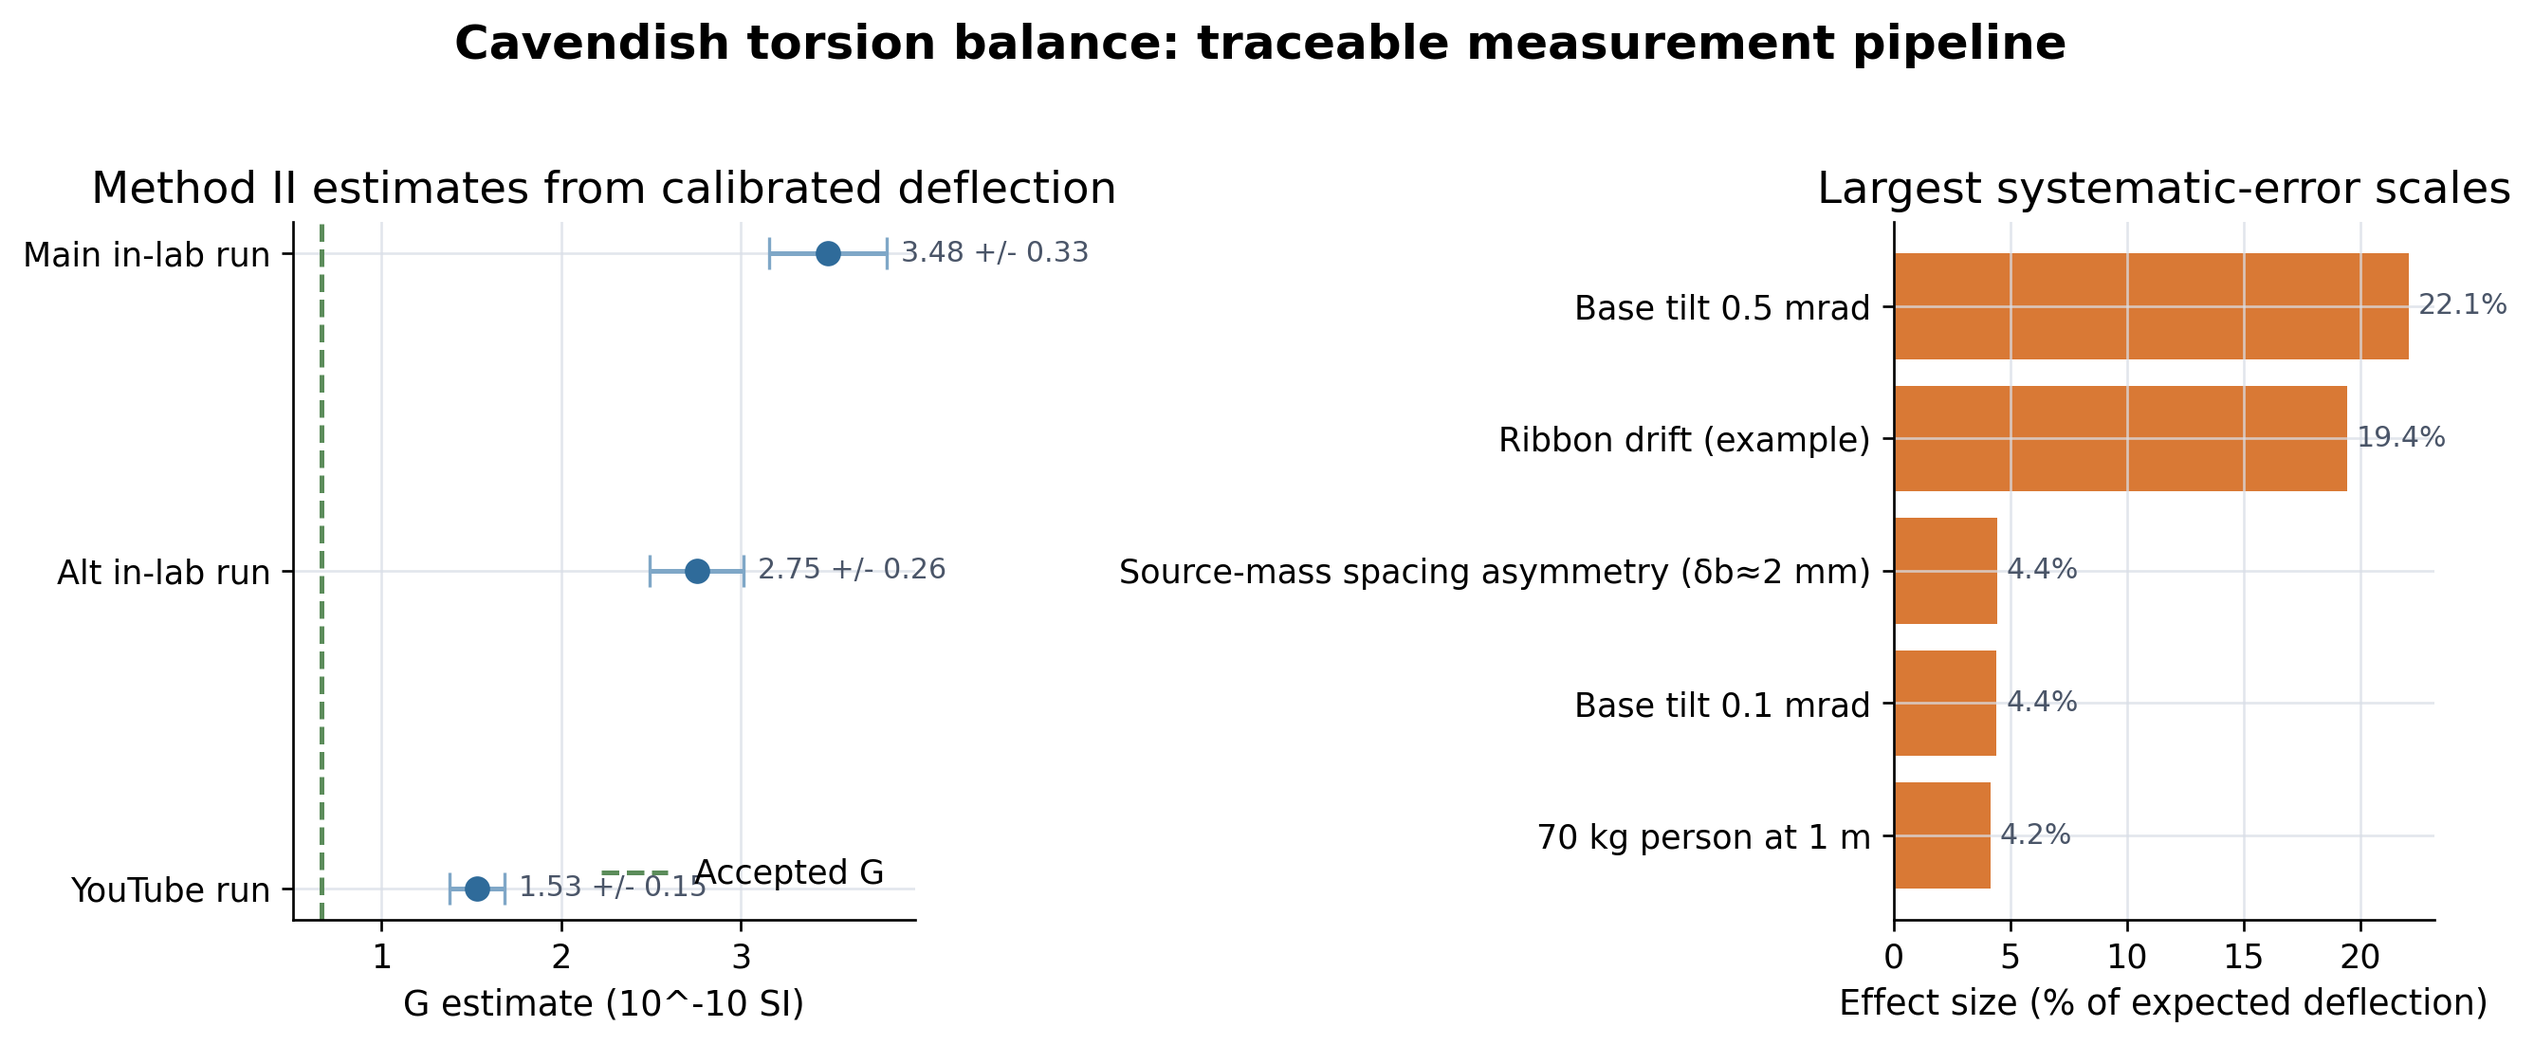
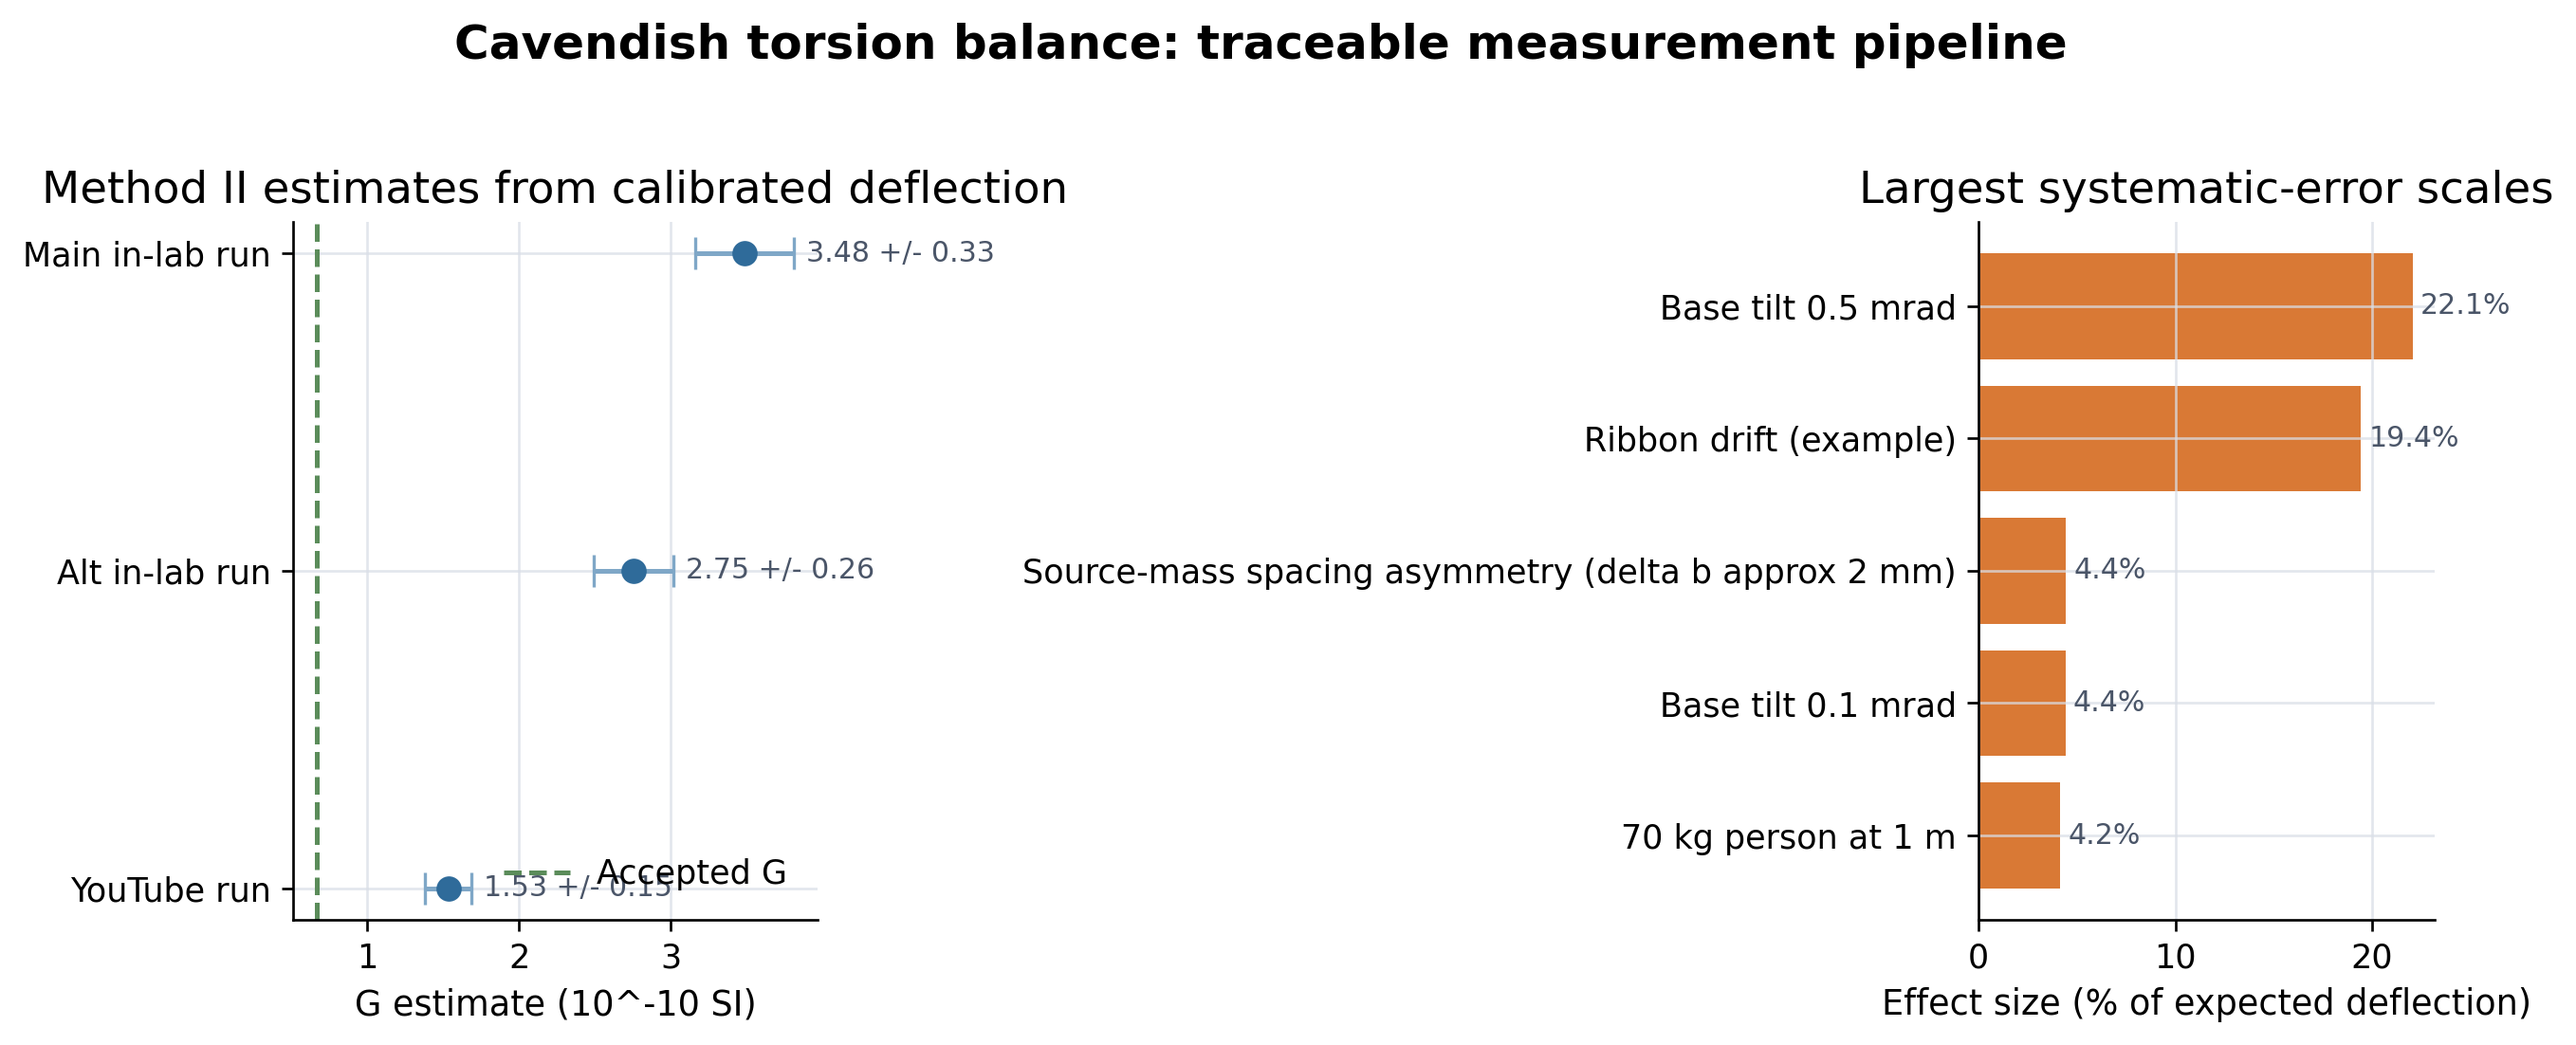
Add research snapshot and clean labels

diff --git a/scripts/reproduce_report_artifacts.py b/scripts/reproduce_report_artifacts.py
@@ -16,6 +16,7 @@ from pathlib import Path
 import numpy as np
 import pandas as pd
 import matplotlib.pyplot as plt
+from matplotlib.patches import FancyBboxPatch
 
 
 ROOT = Path(__file__).resolve().parents[1]
@@ -52,6 +53,21 @@ def save_figure(fig: plt.Figure, path: Path) -> None:
     fig.tight_layout()
     fig.savefig(path, bbox_inches="tight", facecolor="white")
     plt.close(fig)
+
+
+def draw_card(ax: plt.Axes, x: float, y: float, w: float, h: float, title: str, body: str, color: str) -> None:
+    box = FancyBboxPatch(
+        (x, y),
+        w,
+        h,
+        boxstyle="round,pad=0.018,rounding_size=0.025",
+        facecolor="white",
+        edgecolor="#CBD5E1",
+        linewidth=1.0,
+    )
+    ax.add_patch(box)
+    ax.text(x + 0.035, y + h - 0.07, title, ha="left", va="top", fontsize=11, weight="bold", color=color)
+    ax.text(x + 0.035, y + h - 0.145, body, ha="left", va="top", fontsize=9.3, color="#172033", linespacing=1.25)
 
 
 def load_params() -> dict:
@@ -142,6 +158,100 @@ def plot_readme_overview(method_df: pd.DataFrame, sys_df: pd.DataFrame, params: 
     save_figure(fig, FIG_DIR / "method2_overview.png")
 
 
+def plot_research_snapshot(method_df: pd.DataFrame, sys_df: pd.DataFrame, params: dict) -> None:
+    set_plot_style()
+    fig = plt.figure(figsize=(11.2, 5.5), facecolor="white")
+    grid = fig.add_gridspec(2, 3, height_ratios=[0.92, 1.08], width_ratios=[1.05, 1.0, 1.0])
+
+    accepted = params["constants"]["G_true"] * 1e10
+    main_run = method_df.loc[method_df["run"] == "video_main_100min"].iloc[0]
+    top_sys = sys_df.sort_values("frac_of_deltaSexp_pct", ascending=False).head(4)
+
+    ax_cards = fig.add_subplot(grid[0, :])
+    ax_cards.axis("off")
+    ax_cards.set_xlim(0, 1)
+    ax_cards.set_ylim(0, 1)
+    fig.suptitle("Cavendish torsion balance analysis", x=0.04, y=0.985, ha="left", fontsize=17, weight="bold", color="#172033")
+    fig.text(
+        0.04,
+        0.925,
+        "Video-derived laser tracking converted into calibrated deflection estimates and systematic-error tables.",
+        ha="left",
+        fontsize=10.5,
+        color=GRAY,
+    )
+
+    draw_card(
+        ax_cards,
+        0.02,
+        0.08,
+        0.28,
+        0.68,
+        "Tracking inputs",
+        "laser-spot centroid series\nruler / anchor calibration\nprocessed position tables",
+        BLUE,
+    )
+    draw_card(
+        ax_cards,
+        0.36,
+        0.08,
+        0.28,
+        0.68,
+        "Method II output",
+        f"main run G = {main_run['G0_SI'] * 1e10:.2f} +/- {main_run['uG0_stat_SI'] * 1e10:.2f}\n"
+        f"accepted G = {accepted:.2f}\n"
+        "values shown in 10^-10 SI units",
+        ORANGE,
+    )
+    draw_card(
+        ax_cards,
+        0.70,
+        0.08,
+        0.28,
+        0.68,
+        "Systematics",
+        f"{len(sys_df)} modeled effects\n"
+        f"largest listed: {top_sys.iloc[0]['effect']}\n"
+        "tables regenerated from parameters",
+        GREEN,
+    )
+
+    ax_g = fig.add_subplot(grid[1, :2])
+    labels = ["YouTube run", "Alt in-lab run", "Main in-lab run"]
+    y = np.arange(len(labels))
+    values = method_df["G0_SI"].to_numpy(dtype=float) * 1e10
+    errors = method_df["uG0_stat_SI"].to_numpy(dtype=float) * 1e10
+    ax_g.errorbar(values, y, xerr=errors, fmt="o", color=BLUE, ecolor="#7FA7C7", capsize=5, ms=8)
+    ax_g.axvline(accepted, color=GREEN, ls="--", lw=1.5, label="accepted value")
+    ax_g.set_yticks(y, labels)
+    ax_g.set_xlabel("G estimate (10^-10 SI)")
+    ax_g.set_title("Calibrated deflection estimates", weight="bold", loc="left")
+    ax_g.set_xlim(0.55, max(values + errors) + 0.75)
+    for x, yy, sigma in zip(values, y, errors):
+        ax_g.text(x + sigma + 0.08, yy, f"{x:.2f} +/- {sigma:.2f}", va="center", color=GRAY, fontsize=9.5)
+    ax_g.legend(loc="lower right")
+
+    ax_sys = fig.add_subplot(grid[1, 2])
+    top = top_sys.iloc[::-1].copy()
+    short_labels = {
+        "Source-mass spacing asymmetry (delta b approx 2 mm)": "mass-spacing asymmetry",
+        "Ribbon drift (example)": "ribbon drift",
+        "Base tilt 0.5 mrad": "base tilt 0.5 mrad",
+        "Base tilt 0.1 mrad": "base tilt 0.1 mrad",
+    }
+    top["display_effect"] = top["effect"].map(lambda value: short_labels.get(value, value[:28]))
+    ax_sys.barh(top["display_effect"], top["frac_of_deltaSexp_pct"], color=ORANGE)
+    ax_sys.set_xlabel("% of expected deflection")
+    ax_sys.set_title("Largest systematic scales", weight="bold", loc="left")
+    for idx, value in enumerate(top["frac_of_deltaSexp_pct"]):
+        ax_sys.text(value + 0.5, idx, f"{value:.1f}%", va="center", color=GRAY, fontsize=9)
+    ax_sys.set_xlim(0, top["frac_of_deltaSexp_pct"].max() * 1.22)
+
+    fig.tight_layout(rect=[0.03, 0.02, 0.99, 0.9])
+    fig.savefig(FIG_DIR / "research_snapshot.png", bbox_inches="tight", facecolor="white")
+    plt.close(fig)
+
+
 def main() -> None:
     params = load_params()
     c = params["constants"]
@@ -193,7 +303,7 @@ def main() -> None:
         with open(ROOT / "data" / "processed" / f"{run_key}_calibration.json", "w", encoding="utf-8") as f:
             json.dump(cal, f, indent=2)
 
-    # --- Method II summary table (ΔS from fit summary, G0 from PASCO formula) ---
+    # --- Method II summary table (deltaS from fit summary, G0 from PASCO formula) ---
     rows = []
     for case, deltaS_cm in [
         ("youtube_100min", deltaS_by_run["youtube_100min"]),
@@ -217,7 +327,7 @@ def main() -> None:
     method_df = pd.DataFrame(rows)
     method_df.to_csv(ROOT / "results" / "method2_summary.csv", index=False)
 
-    # --- Expected signal scale ΔS_exp (using accepted G) ---
+    # --- Expected signal scale deltaS_exp (using accepted G) ---
     factor = c["d_m"] ** 2 + 2 * c["r_m"] ** 2 / 5
     deltaS_exp_cm = (
         c["G_true"]
@@ -230,7 +340,7 @@ def main() -> None:
         * 100.0
     )
 
-    # --- Systematics table (Table 3 in the paper) expressed as δ(ΔS) ---
+    # --- Systematics table (Table 3 in the paper) expressed as delta(deltaS) ---
     F_sig = c["G_true"] * c["m1_kg"] * c["m2_kg"] / (c["b_m"] ** 2)
     tau_sig = 2 * F_sig * c["d_m"]
 
@@ -241,7 +351,7 @@ def main() -> None:
     dS_person_cm = (F1 * c["d_m"] / tau_sig) * deltaS_exp_cm
     dS_move_cm = ((F1 - F2) * c["d_m"] / tau_sig) * deltaS_exp_cm
 
-    # 2) Base tilt: δS ≈ 4 L δθ
+    # 2) Base tilt: deltaS ~= 4 L delta(theta)
     def dS_from_tilt_mrad(mrad: float) -> float:
         return 4 * c["L_m"] * (mrad * 1e-3) * 100
 
@@ -251,7 +361,7 @@ def main() -> None:
     # 3) Ribbon drift example (user-observed scale)
     dS_drift_cm = c["ribbon_drift_cm_example"]
 
-    # 4) Source-mass spacing asymmetry (δb ≈ 2 mm)
+    # 4) Source-mass spacing asymmetry (delta b approx 2 mm)
     b = c["b_m"]
     db = c["delta_b_asym_m"]
     f = 0.5 * (1 + (b / (b + db)) ** 2)  # effective torque factor / (2/b^2)
@@ -263,18 +373,18 @@ def main() -> None:
     rel_force_exp = 2 * db_exp / b
     dS_hidden_cm = rel_force_exp * deltaS_exp_cm
 
-    # 6) Scale calibration: two endpoints each ±5 px uncertainty
+    # 6) Scale calibration: two endpoints, each with +/-5 px uncertainty
     u_sep_px = math.sqrt(c["scale_endpoint_px_unc_each"] ** 2 + c["scale_endpoint_px_unc_each"] ** 2)
     rel_scale = u_sep_px / c["scale_pixels_example"]
     dS_scale_cm = rel_scale * deltaS_exp_cm
 
     table3 = [
         ("70 kg person at 1 m", r"$F=Gm_2M/r^2;\ \tau\sim Fd$", dS_person_cm),
-        ("Person moving 1m→2m", r"$\Delta F = F(1)-F(2)$", dS_move_cm),
+        ("Person moving 1 m to 2 m", r"$\Delta F = F(1)-F(2)$", dS_move_cm),
         ("Base tilt 0.1 mrad", r"$\delta S\approx 4L\delta\theta$", dS_tilt_01),
         ("Base tilt 0.5 mrad", r"$\delta S\approx 4L\delta\theta$", dS_tilt_05),
         ("Ribbon drift (example)", r"slow drift over hours", dS_drift_cm),
-        ("Source-mass spacing asymmetry (δb≈2 mm)", r"$f=\frac{(1/b^2+1/(b+\delta b)^2)}{2/b^2};\ \delta(\Delta S)\approx(1-f)\Delta S_{\rm exp}$", dS_asym_cm),
+        ("Source-mass spacing asymmetry (delta b approx 2 mm)", r"$f=(1/b^2+1/(b+\delta b)^2)/(2/b^2)$", dS_asym_cm),
         ("Finite-twist geometry", r"$\delta F/F\approx 2(d\theta)/b$", dS_hidden_cm),
         ("Scale calibration (example)", r"$\delta(\Delta S)/\Delta S\sim \delta s/s$", dS_scale_cm),
     ]
@@ -289,6 +399,7 @@ def main() -> None:
     sys_df["deltaS_exp_cm_used"] = deltaS_exp_cm
     sys_df.to_csv(ROOT / "results" / "systematics_table3.csv", index=False)
     plot_readme_overview(method_df, sys_df, params)
+    plot_research_snapshot(method_df, sys_df, params)
 
     # --- Data catalog (sizes + row counts) ---
     catalog_rows = []

diff --git a/README.md b/README.md
@@ -2,13 +2,11 @@
 
 This repository documents a Cavendish torsion balance experiment using video-based laser-spot tracking, calibrated position reconstruction, and uncertainty-aware analysis of the gravitational constant.
 
-## What This Demonstrates
+## Project Overview
 
 This project highlights reproducible time-series analysis from imperfect observational
 data. The workflow turns raw tracking outputs into calibrated measurements, records
-systematic-error assumptions, and regenerates report tables from code. For research
-groups working with political, legal, or institutional records, this is the same habit:
-make each transformation visible, versioned, and checkable.
+systematic-error assumptions, and regenerates report tables from code.
 
 ## At a Glance
 
@@ -18,8 +16,8 @@ make each transformation visible, versioned, and checkable.
   calibration metadata, and systematic-error accounting.
 - **Reproducibility signal:** one script rebuilds processed CSVs, summary tables, and
   the data catalog used by the report.
-- **Transferable skill:** the project shows how I handle imperfect observational
-  records, document assumptions, and keep derived measurements traceable.
+The main emphasis is traceability: raw tracking files, calibration choices, processed
+position series, and report-facing tables remain linked through code.
 
 ## What the code does
 
@@ -28,6 +26,10 @@ make each transformation visible, versioned, and checkable.
 - Reconstruct equilibrium shifts and oscillation behavior across multiple runs
 - Recompute Method II results and the systematic-error table used in the report
 - Export processed datasets and summary tables from the raw inputs
+
+## Research snapshot
+
+<img src="figures/research_snapshot.png" alt="Cavendish research snapshot" width="860">
 
 ## Analysis preview
 
@@ -49,6 +51,7 @@ Generated outputs include:
 - `results/method2_summary.csv`
 - `results/systematics_table3.csv`
 - `results/data_catalog.csv`
+- `figures/research_snapshot.png`
 - `figures/method2_overview.png`
 
 ## Repository structure
